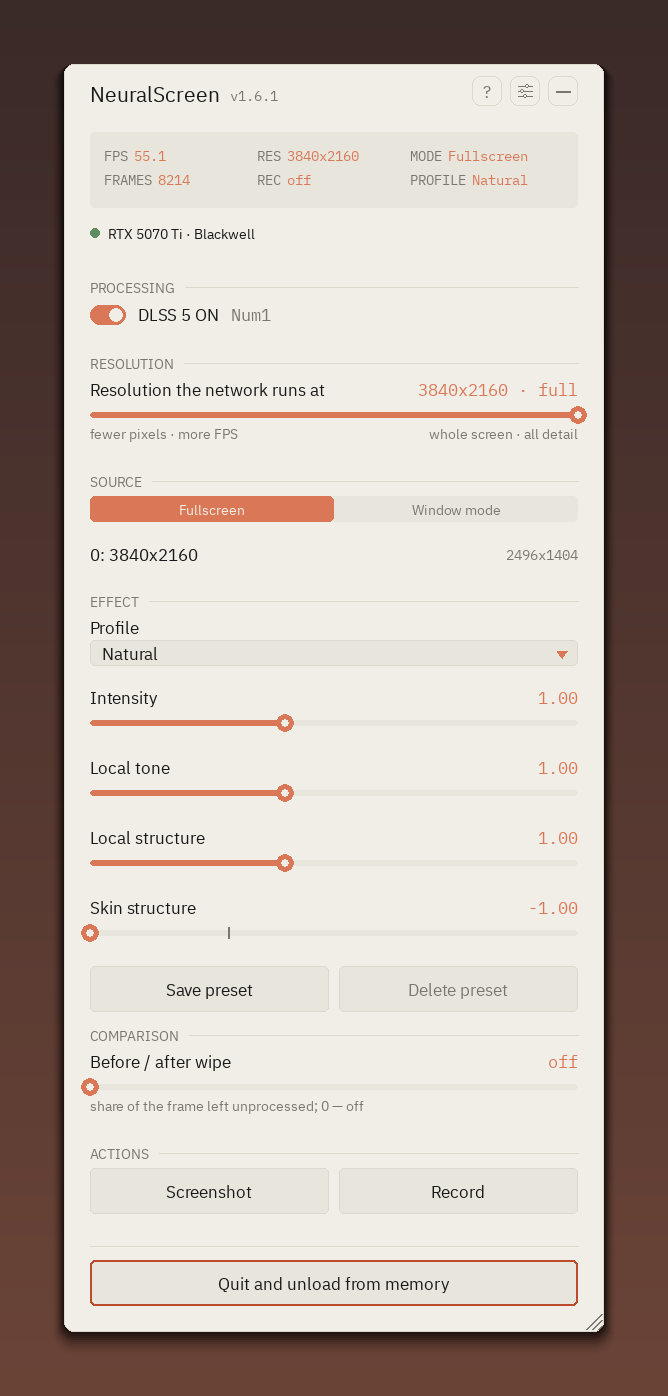
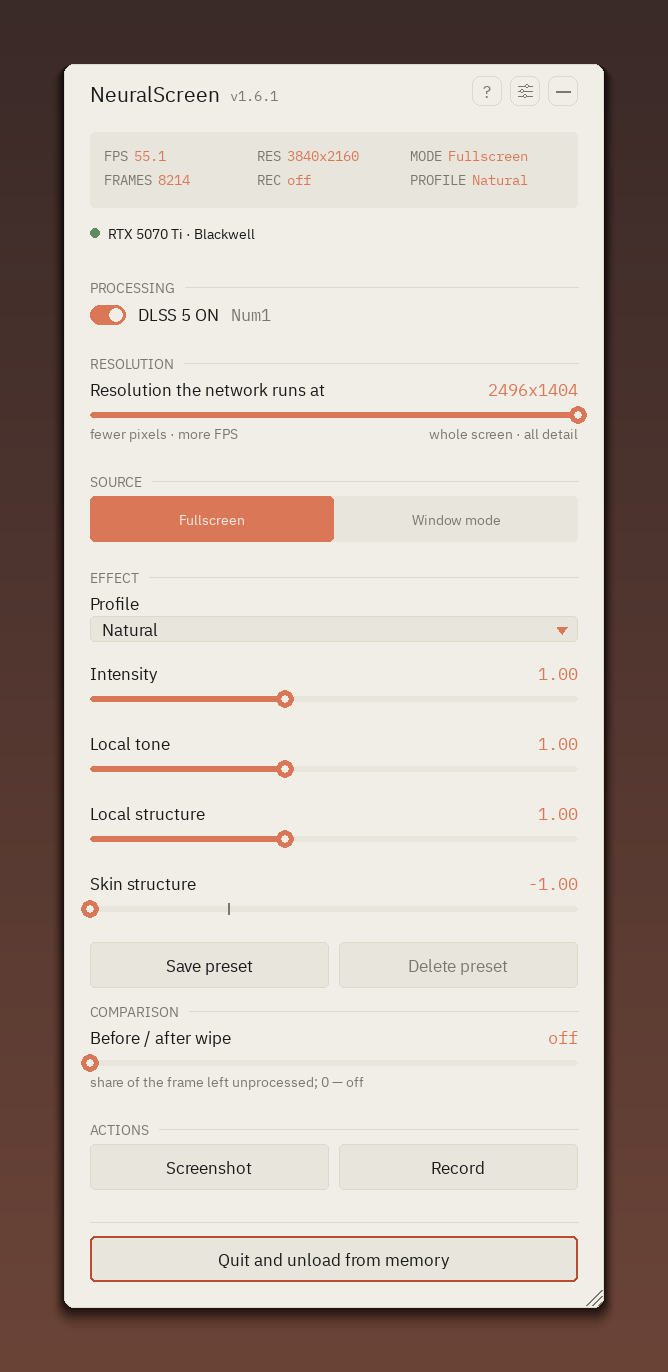
ui: the resolution label stops promising 4K, the source stops repeating itself
Three things a user found in five minutes with the build.

**The resolution slider said "3840x2160 - full" at the top step.** NGX is
capped at 2560x1440, so on a 4K screen the network never sees more than
that - the menu was promising a resolution it cannot deliver, and the size
it actually runs at appeared elsewhere as a second, smaller number. The
value now IS the work size, always; the word "full" survives only when the
work size really is the whole screen.

**The source said the same thing twice.** The main page named the monitor
under its segment while the monitor is chosen on the settings page. The
line stays for window mode, where it names the window being processed, and
the monitor belongs to the settings alone.

**The segment was smaller than everything around it.** It takes the height
of the action buttons now, so "Fullscreen / Window mode" reads as a control
of the same weight as Screenshot and Record.

And the skip: "Skip static frames" works - the worker logged 1247 idle
stretches in one session, one of them 185 frames - but nothing on screen
said so while the FPS counter kept reading 45, which looks exactly like a
feature that does nothing. The stats block says "idle" in place of the
frame rate while the network is waiting for the screen to change.

test_nr_small followed the old promise and now checks the honest one.

66 checks green, GUI cycle clean.

diff --git a/overlay_ui.py b/overlay_ui.py
@@ -207,6 +207,8 @@ class OverlayMenu:
             # The current monitor's DXGI devicename - carried so a log or a
             # future control can name the exact display the capture is on.
             "monitor_devicename": "",
+            # True while the network is idling on an unchanged screen.
+            "idle": False,
             "gpu": "0",
             "gpus": [],
             "autostart": False,
@@ -525,7 +527,7 @@ class OverlayMenu:
             cy += label_h + ctrl_h + hint_h + gap
 
         def segmented(key: str, label: str, current: str, options: list,
-                      labels: list | None = None) -> None:
+                      labels: list | None = None, height: int | None = None) -> None:
             """A two- or three-way switch instead of a drop-down list.
 
             A list for the sake of two values is an extra click and extra
@@ -539,11 +541,12 @@ class OverlayMenu:
                 # No label, no reason to squeeze: the captions are the
                 # control. "Window mode" ran off the panel at the old width.
                 seg_w = inner_w
-            rect = pygame.Rect(pad + inner_w - seg_w, cy, seg_w, ctrl_h)
+            seg_h = height or ctrl_h
+            rect = pygame.Rect(pad + inner_w - seg_w, cy, seg_w, seg_h)
             items.append(Item("segmented", key, rect, payload=list(options),
                               extra={"label": label, "current": current,
                                      "labels": list(labels or options)}))
-            cy += ctrl_h + gap
+            cy += seg_h + gap
 
         def toggle(key: str, label: str, on: bool, hint: str = "",
                    key_text: str = "") -> None:
@@ -706,12 +709,21 @@ class OverlayMenu:
             # every position is a different resolution; above it they would all
             # be the same one, so there is exactly one position up there.
             pos = cap + 0.05 if full else float(self.state.get("work_scale", cap))
-            if full:
-                shown = str(self.state.get("screen_size")
-                            or self.stats.get("resolution") or "")
-                value_text = f"{shown} · {s['nr_res_full']}" if shown else s["nr_res_full"]
+            # Always the size the network actually runs at. At the top of
+            # the slider it used to say "3840x2160 - full", which is not
+            # true on a 4K screen: NGX is capped at 2560x1440, so the
+            # network never sees more than that and the menu was promising
+            # a resolution it cannot deliver (user, 12.09). The word stays
+            # only when the work size really is the whole screen.
+            work = str(self.state.get("work_size") or "")
+            screen = str(self.state.get("screen_size")
+                         or self.stats.get("resolution") or "")
+            if full and work and work == screen:
+                value_text = f"{work} · {s['nr_res_full']}"
+            elif work:
+                value_text = work
             else:
-                value_text = str(self.state.get("work_size") or f"{pos:.2f}")
+                value_text = s["nr_res_full"] if full else f"{pos:.2f}"
             # The lower bound follows WORK_SCALE_MIN (0.1), not a hardcoded
             # 0.30: a config value below the slider range would put the knob
             # at the bottom while the label shows a different resolution.
@@ -732,19 +744,21 @@ class OverlayMenu:
             in_window = bool(self.state.get("window_mode"))
             segmented("source", "", "window" if in_window else "fullscreen",
                       ["fullscreen", "window"],
-                      labels=[s["mode_fullscreen"], s["mode_window"]])
-            current = (str(self.state.get("window_current") or "").split(": ", 1)
-                       if in_window else [])
-            name = (current[1] if len(current) > 1 else
-                    s["mode_window"] if in_window else
-                    str(self.state.get("monitor") or "").split(" (")[0])
-            items.append(Item("info", "source_now",
-                              pygame.Rect(pad, cy, inner_w, self._u(LABEL_H)),
-                              extra={"label": name,
-                                     "value": str(self.state.get("work_size")
-                                                  or self.state.get("screen_size")
-                                                  or "")}))
-            cy += self._u(LABEL_H) + gap
+                      labels=[s["mode_fullscreen"], s["mode_window"]],
+                      height=act_h)
+            # Which window, only in window mode. On the whole screen the
+            # source is the monitor, and the monitor is chosen on the
+            # settings page - naming it here as well was the same thing
+            # said twice (user, 12.09).
+            if in_window:
+                current = str(self.state.get("window_current") or "").split(": ", 1)
+                items.append(Item("info", "source_now",
+                                  pygame.Rect(pad, cy, inner_w, self._u(LABEL_H)),
+                                  extra={"label": (current[1] if len(current) > 1
+                                                   else s["mode_window"]),
+                                         "value": str(self.state.get("work_size")
+                                                      or "")}))
+                cy += self._u(LABEL_H) + gap
 
             # The profile and the four effect sliders are their own subject -
             # what the picture looks like, not how hard the network works.
@@ -1485,8 +1499,13 @@ class OverlayMenu:
         fps = st.get("fps")
         mode = (s["mode_window"] if self.state.get("window_mode")
                 else s["mode_fullscreen"])
+        # An idle network is not a stalled one: the loop still runs at full
+        # speed, it just does not process an unchanged screen. Saying so
+        # here is the only visible sign that the skip is doing its job.
+        idling = bool(self.state.get("idle"))
         rows = (
-            (("FPS", f"{fps:.1f}" if isinstance(fps, (int, float)) else "—"),
+            (("FPS", s.get("idle_short", "idle") if idling
+              else f"{fps:.1f}" if isinstance(fps, (int, float)) else "—"),
              ("RES", str(st.get("resolution", "—"))),
              ("MODE", mode)),
             (("FRAMES", str(st.get("frames", "—"))),

diff --git a/i18n.py b/i18n.py
@@ -95,6 +95,7 @@ STRINGS = {
         "win_mode_on": "One window: processing the focused window",
         "win_mode_off": "Full screen again",
         "spout_on": "Spout2 output ON",
+        "idle_short": "idle",
         "skip_static": "Skip static frames",
         "skip_static_hint": "No new frame (idle desktop, an unredrawn window) -\nthe network waits instead of processing the same picture again.",
         "spout_off": "Spout2 output OFF",
@@ -212,6 +213,7 @@ STRINGS = {
         "win_mode_on": "Одно окно: обрабатывается активное окно",
         "win_mode_off": "Снова весь экран",
         "spout_on": "Вывод в Spout2 включён",
+        "idle_short": "простой",
         "skip_static": "Пропускать статичные кадры",
         "skip_static_hint": "Нет нового кадра (рабочий стол не меняется, окно не перерисовывается) -\nсеть ждёт, а не обрабатывает ту же картинку повторно.",
         "spout_off": "Вывод в Spout2 выключен",
@@ -329,6 +331,7 @@ STRINGS = {
         "win_mode_on": "Une fenêtre : traitement de la fenêtre active",
         "win_mode_off": "Retour au plein écran",
         "spout_on": "Sortie Spout2 activée",
+        "idle_short": "repos",
         "skip_static": "Ignorer les images statiques",
         "skip_static_hint": "Aucune nouvelle image (bureau immobile, fenêtre non redessinée) -\nle réseau attend au lieu de retraiter la même image.",
         "spout_off": "Sortie Spout2 désactivée",
@@ -446,6 +449,7 @@ STRINGS = {
         "win_mode_on": "Ein Fenster: das aktive Fenster wird verarbeitet",
         "win_mode_off": "Wieder Vollbild",
         "spout_on": "Spout2-Ausgabe AN",
+        "idle_short": "Leerlauf",
         "skip_static": "Statische Frames überspringen",
         "skip_static_hint": "Kein neues Bild (unveränderter Desktop, nicht neu gezeichnetes Fenster) -\ndas Netz wartet, statt dasselbe Bild erneut zu verarbeiten.",
         "spout_off": "Spout2-Ausgabe AUS",
@@ -563,6 +567,7 @@ STRINGS = {
         "win_mode_on": "Una ventana: se procesa la ventana activa",
         "win_mode_off": "Volver a pantalla completa",
         "spout_on": "Salida Spout2 activada",
+        "idle_short": "en espera",
         "skip_static": "Omitir fotogramas estáticos",
         "skip_static_hint": "Sin fotograma nuevo (escritorio inmóvil, ventana sin redibujar) -\nla red espera en lugar de reprocesar la misma imagen.",
         "spout_off": "Salida Spout2 desactivada",
@@ -680,6 +685,7 @@ STRINGS = {
         "win_mode_on": "Una finestra: elaborazione della finestra attiva",
         "win_mode_off": "Di nuovo schermo intero",
         "spout_on": "Uscita Spout2 attiva",
+        "idle_short": "inattivo",
         "skip_static": "Salta i fotogrammi statici",
         "skip_static_hint": "Nessun nuovo fotogramma (desktop fermo, finestra non ridisegnata) -\nla rete attende invece di rielaborare la stessa immagine.",
         "spout_off": "Uscita Spout2 disattivata",
@@ -797,6 +803,7 @@ STRINGS = {
         "win_mode_on": "Uma janela: processando a janela ativa",
         "win_mode_off": "Tela cheia novamente",
         "spout_on": "Saída Spout2 ativada",
+        "idle_short": "ocioso",
         "skip_static": "Ignorar quadros estáticos",
         "skip_static_hint": "Sem quadro novo (desktop parado, janela não redesenhada) -\na rede espera em vez de reprocessar a mesma imagem.",
         "spout_off": "Saída Spout2 desativada",
@@ -914,6 +921,7 @@ STRINGS = {
         "win_mode_on": "Jedno okno: przetwarzane jest aktywne okno",
         "win_mode_off": "Znowu pełny ekran",
         "spout_on": "Wyjście Spout2 włączone",
+        "idle_short": "bezczynny",
         "skip_static": "Pomijaj statyczne klatki",
         "skip_static_hint": "Brak nowej klatki (statyczny pulpit, okno bez odświeżenia) -\nsieć czeka zamiast ponownie przetwarzać ten sam obraz.",
         "spout_off": "Wyjście Spout2 wyłączone",
@@ -1031,6 +1039,7 @@ STRINGS = {
         "win_mode_on": "Одне вікно: обробляється активне вікно",
         "win_mode_off": "Знову весь екран",
         "spout_on": "Вивід у Spout2 увімкнено",
+        "idle_short": "простій",
         "skip_static": "Пропускати статичні кадри",
         "skip_static_hint": "Немає нового кадру (нерухомий робочий стіл, вікно не перемальовується) -\nмережа чекає, а не обробляє те саме зображення знову.",
         "spout_off": "Вивід у Spout2 вимкнено",
@@ -1148,6 +1157,7 @@ STRINGS = {
         "win_mode_on": "单窗口：处理当前活动窗口",
         "win_mode_off": "恢复全屏",
         "spout_on": "Spout2 输出已开启",
+        "idle_short": "空闲",
         "skip_static": "跳过静态帧",
         "skip_static_hint": "没有新帧（桌面静止、窗口未重绘） -\n网络将等待而不是重复处理同一画面。",
         "spout_off": "Spout2 输出已关闭",
@@ -1265,6 +1275,7 @@ STRINGS = {
         "win_mode_on": "1つのウィンドウ：アクティブなウィンドウを処理",
         "win_mode_off": "全画面に戻る",
         "spout_on": "Spout2 出力オン",
+        "idle_short": "待機",
         "skip_static": "静的フレームをスキップ",
         "skip_static_hint": "新しいフレームがない場合（静止したデスクトップ、再描画されないウィンドウ） -\nネットワークは同じ映像を再処理せずに待機します。",
         "spout_off": "Spout2 出力オフ",
@@ -1382,6 +1393,7 @@ STRINGS = {
         "win_mode_on": "단일 창: 활성 창 처리",
         "win_mode_off": "전체 화면으로 복귀",
         "spout_on": "Spout2 출력 켜짐",
+        "idle_short": "대기",
         "skip_static": "정적 프레임 건너뛰기",
         "skip_static_hint": "새 프레임이 없으면(정지된 데스크톱, 다시 그려지지 않는 창) -\n네트워크가 같은 화면을 다시 처리하지 않고 대기합니다.",
         "spout_off": "Spout2 출력 꺼짐",

diff --git a/tests/test_nr_small.py b/tests/test_nr_small.py
@@ -208,9 +208,17 @@ def check_menu(failures: list) -> None:
         if ws.value <= CAP:
             failures.append(f"with the mode off the knob is at {ws.value:.2f}, "
                             f"not on the full-screen step")
-        if "3840x2160" not in str(ws.extra.get("value_text")):
-            failures.append(f"the full-screen step shows "
-                            f"{ws.extra.get('value_text')!r}, not the screen size")
+        # The step shows the size the network RUNS at, which on a 4K screen
+        # is the 2560x1440 cap, not the screen. It used to read
+        # "3840x2160 - full" there and promise a resolution NGX cannot
+        # deliver (user, 12.09).
+        shown = str(ws.extra.get("value_text"))
+        if "2560x1440" not in shown:
+            failures.append(f"the full-screen step shows {shown!r}, not the "
+                            f"work size the network runs at")
+        if "3840x2160" in shown:
+            failures.append(f"the full-screen step still promises the screen "
+                            f"size: {shown!r}")
 
         # Drag to the left end: a resolution action, and not an NR parameter.
         track = ws.extra.get("track")

diff --git a/settings_io.py b/settings_io.py
@@ -443,6 +443,12 @@ def menu_payload(st) -> dict:
         "screenshot_dir": st.cfg.get("screenshot_dir") or "",
         "spout": bool(st.cfg.get("spout", False)),
         "skip_static": bool(st.cfg.get("skip_static", True)),
+        # Is the network idling on an unchanged screen right now? The
+        # worker says so in its log; without this the menu shows a
+        # healthy FPS while nothing is being processed, and the skip
+        # reads as "it does not work" (user, 12.09).
+        "idle": any("[skip] no new frame" in line
+                    for line in st.worker_logs[-3:]),
         "gpus": [f"{i}: {name}" for i, name in list_adapters()],
         "gpu": next((f"{i}: {name}" for i, name in list_adapters()
                      if i == int(st.cfg.get("gpu", 0))), ""),
